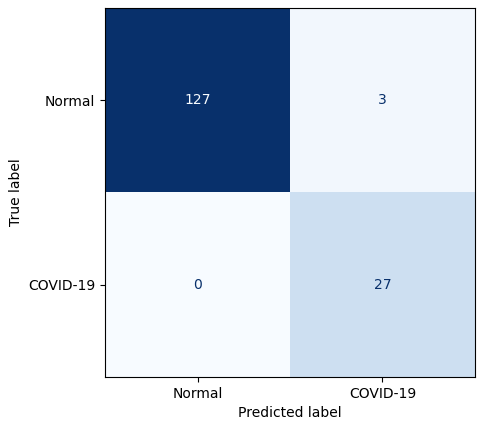
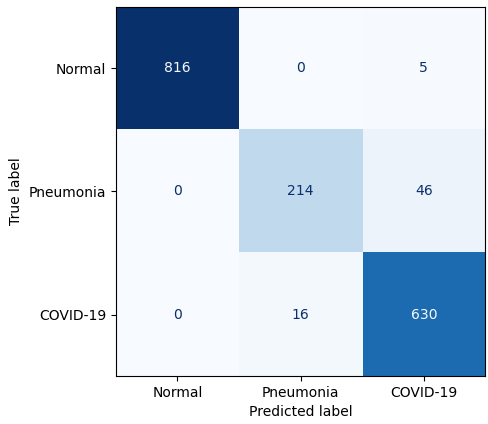
Update images and results

diff --git a/README.md b/README.md
@@ -1,11 +1,11 @@
 # COVID-Net Open Source Initiative - COVIDNet-CT
 
-**Note: The COVIDNet-CT model provided here is intended to be used as a reference model that can be built upon and enhanced as new data becomes available. It is currently at a research stage and not yet intended as a production-ready model (not meant for direct clinical diagnosis), and we are working continuously to improve it as new data becomes available. Please do not use COVIDNet-CT for self-diagnosis and seek help from your local health authorities.**
+**Note: The COVIDNet-CT models provided here are intended to be used as reference models that can be built upon and enhanced as new data becomes available. They are currently at a research stage and not yet intended as production-ready models (not meant for direct clinical diagnosis), and we are working continuously to improve them as new data becomes available. Please do not use COVIDNet-CT for self-diagnosis and seek help from your local health authorities.**
 
 <p align="center">
 	<img src="assets/covidnet-ct-exp.png" alt="photo not available" width="40%" height="40%">
 	<br>
-	<em>Example chest radiography image of a COVID-19 case and its associated critical factors (highlighted in white) as identified by GSInquire.</em>
+	<em>Example chest radiography image of a COVID-19 case and its associated critical factors (highlighted in red) as identified by GSInquire.</em>
 </p>
 
 If you are a researcher or healthcare worker and you would like access to the **GSInquire tool to use to interpret COVID-Net results** on your data or existing data, please reach out to a28wong@uwaterloo.ca or alex@darwinai.ca
@@ -65,11 +65,13 @@ These are the final results for COVIDNet-CT.
   </tr>
   <tr>
     <td class="tg-7btt">Normal</td>
+    <td class="tg-7btt">Pneumonia</td>
     <td class="tg-7btt">COVID-19</td>
   </tr>
   <tr>
-    <td class="tg-c3ow">97.7</td>
-    <td class="tg-c3ow">100.0</td>
+    <td class="tg-c3ow">99.4</td>
+    <td class="tg-c3ow">82.3</td>
+    <td class="tg-c3ow">97.5</td>
   </tr>
 </table></div>
 
@@ -79,10 +81,12 @@ These are the final results for COVIDNet-CT.
   </tr>
   <tr>
     <td class="tg-7btt">Normal</td>
+    <td class="tg-7btt">Pneumonia</td>
     <td class="tg-7btt">COVID-19</td>
   </tr>
   <tr>
-    <td class="tg-c3ow">100.0</td>
-    <td class="tg-c3ow">90.0</td>
+    <td class="tg-c3ow">100</td>
+    <td class="tg-c3ow">93.0</td>
+    <td class="tg-c3ow">92.5</td>
   </tr>
 </table></div>
